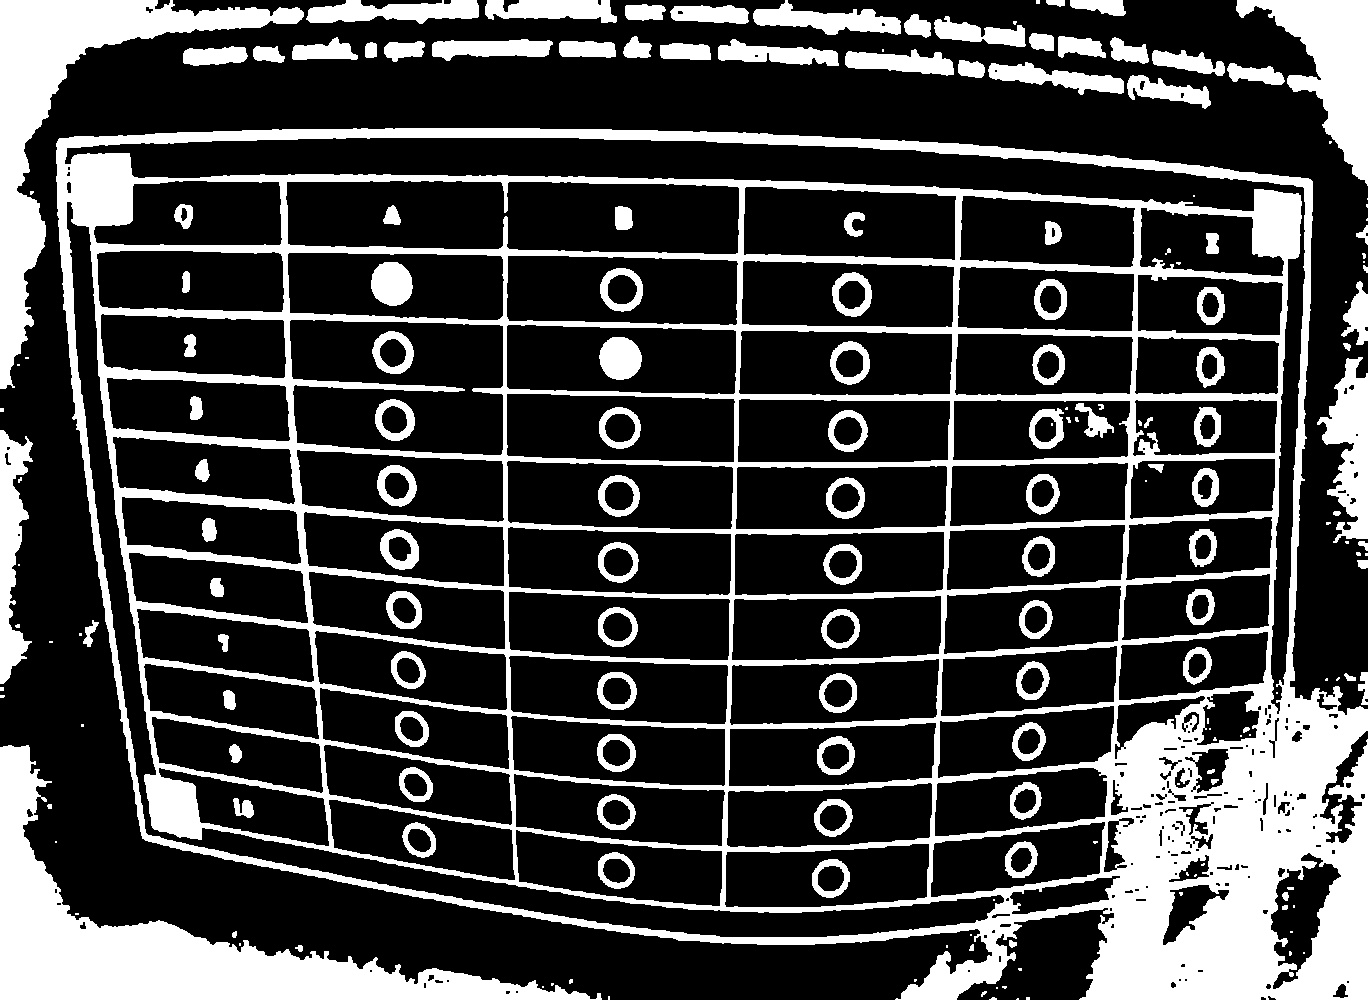
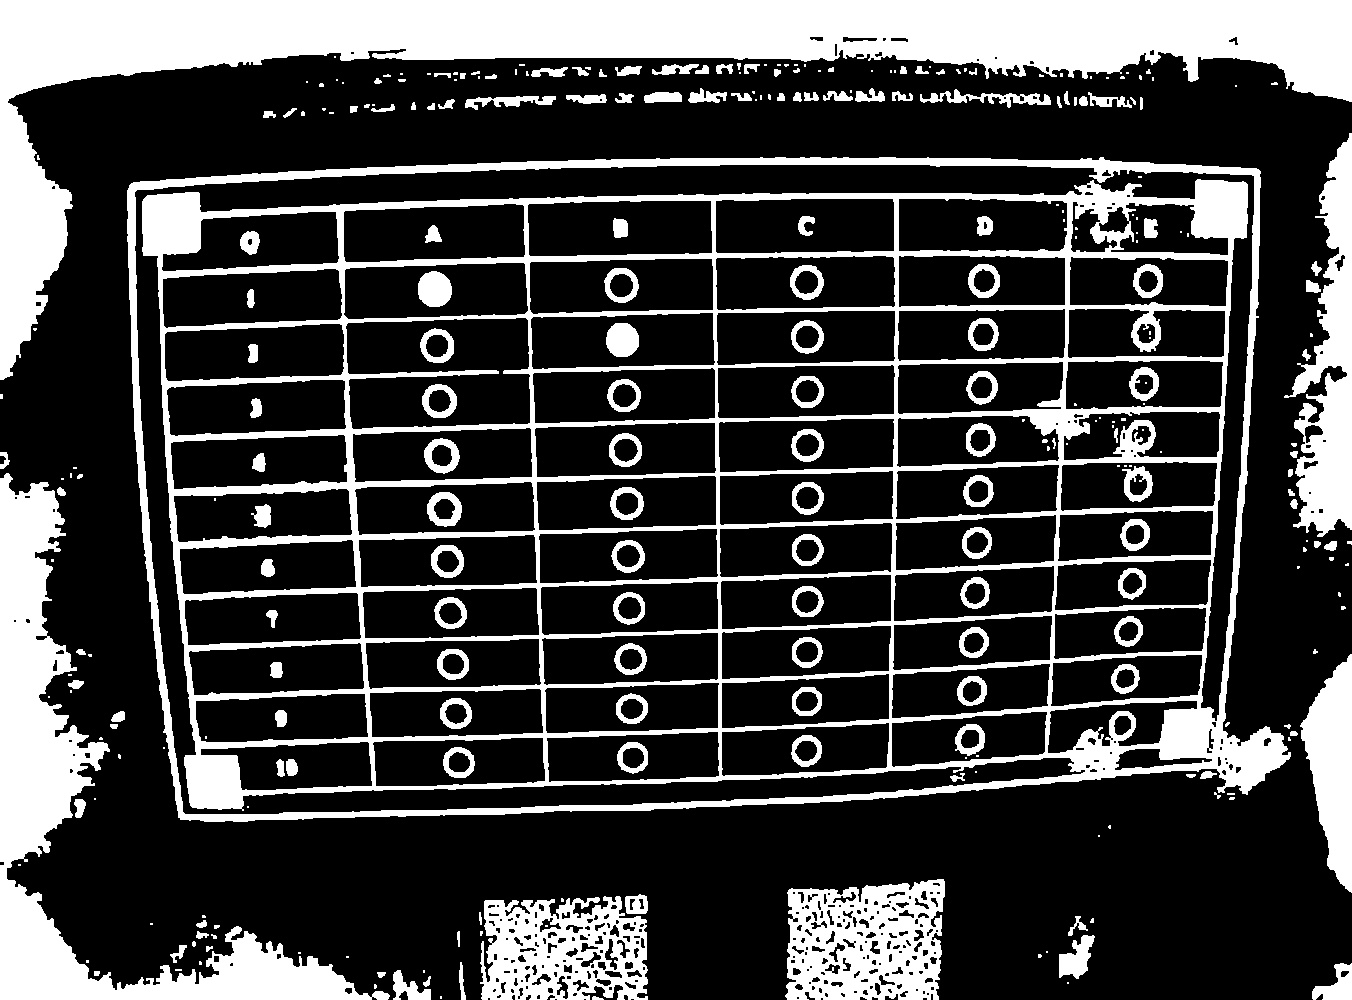
correcao cartao resposta (teste 4) 06/04

diff --git a/frontend/corrigir-prova.html b/frontend/corrigir-prova.html
@@ -473,11 +473,40 @@
             border-left: 3px solid #fff;
         }
         
-        @media (max-width: 480px) {
+        /* 🔥 OTIMIZAÇÕES PARA MOBILE - CÂMERA MAIS PRÓXIMA E INFORMAÇÕES SIMPLIFICADAS */
+        @media (max-width: 768px) {
             .respostas-grid { grid-template-columns: repeat(auto-fill, minmax(85px, 1fr)); }
             .btn-opcao { width: 32px; font-size: 11px; }
             .resposta-card .resposta-valor { font-size: 1.4rem; }
             .modo-indicador { font-size: 9px; padding: 2px 8px; top: 5px; right: 5px; }
+            
+            /* 🔥 QUADRADOS MAIORES PARA MOBILE */
+            .guia-quadrado { 
+                width: 45px !important; 
+                height: 45px !important; 
+                border-width: 3px !important;
+            }
+            
+            /* 🔥 FEEDBACK SIMPLIFICADO */
+            .feedback { 
+                font-size: 12px; 
+                padding: 6px 12px; 
+                white-space: nowrap;
+                bottom: 10px;
+            }
+            
+            .status-encaixe { 
+                font-size: 14px; 
+                padding: 4px 12px; 
+                top: 10px;
+                letter-spacing: 6px;
+            }
+        }
+        
+        @media (max-width: 480px) {
+            .respostas-grid { grid-template-columns: repeat(auto-fill, minmax(85px, 1fr)); }
+            .btn-opcao { width: 32px; font-size: 11px; }
+            .resposta-card .resposta-valor { font-size: 1.4rem; }
         }
     </style>
 </head>
@@ -1216,7 +1245,6 @@
                 
                 const alunoEncontrado = alunosMap.get(alunoId);
                 
-                // 🔥 SE ALUNO NÃO FOR ENCONTRADO, VOLTAR AUTOMATICAMENTE PARA SCANNER QR
                 if (!alunoEncontrado) {
                     console.log('❌ Aluno não encontrado. IDs disponíveis:', Array.from(alunosMap.keys()));
                     mostrarAlerta('❌ Aluno não encontrado na turma desta prova!', 'error');
@@ -1243,7 +1271,7 @@
                 mostrarAlerta(`✅ Aluno: ${alunoSelecionado.nome}`, 'success');
                 document.getElementById('infoBar').innerHTML = `<i class="fas fa-user-check"></i> ${alunoSelecionado.nome}`;
                 
-                // 🔥 INICIAR CÂMERA AUTOMATICAMENTE APÓS ESCANEAR QR CODE (PARA TODOS OS DISPOSITIVOS)
+                // 🔥 INICIAR CÂMERA AUTOMATICAMENTE APÓS ESCANEAR QR CODE
                 setTimeout(() => {
                     if (alunoSelecionado && !stream) {
                         console.log('📷 Iniciando câmera automaticamente para escanear o cartão...');
@@ -1330,8 +1358,16 @@
         // ============================================
         
         function atualizarPosicaoGuias(containerWidth, containerHeight, imageWidth, imageHeight) {
-            const margemPx = Math.min(containerWidth, containerHeight) * margemBusca;
-            const tamanhoPx = Math.min(containerWidth, containerHeight) * tamanhoGuia;
+            // 🔥 ZOOM AUMENTADO PARA MOBILE - CÂMERA MAIS PRÓXIMA
+            let margemPx = Math.min(containerWidth, containerHeight) * margemBusca;
+            let tamanhoPx = Math.min(containerWidth, containerHeight) * tamanhoGuia;
+            
+            if (isMobile) {
+                // Mobile: zoom 30% maior (câmera mais próxima do cartão)
+                const zoomMobile = 1.35;
+                margemPx = Math.min(containerWidth, containerHeight) * margemBusca * zoomMobile;
+                tamanhoPx = Math.min(containerWidth, containerHeight) * tamanhoGuia * 1.15;
+            }
             
             const guias = [
                 { id: 'guiaTL', left: margemPx, top: margemPx },
@@ -1354,6 +1390,16 @@
         function detectarQuadradosPretos(ctx, width, height) {
             const imgData = ctx.getImageData(0, 0, width, height);
             const data = imgData.data;
+            
+            // 🔥 SENSIBILIDADE AUMENTADA PARA MOBILE
+            let sensibilidadeAjustada = sensibilidade;
+            let brilhoMaxAjustado = BRILHO_MAX_PRETO;
+            
+            if (isMobile) {
+                sensibilidadeAjustada = sensibilidade * 0.6;  // Mais fácil detectar
+                brilhoMaxAjustado = BRILHO_MAX_PRETO + 40;    // Mais tolerante
+                console.log(`📱 Mobile: sensibilidade=${sensibilidadeAjustada.toFixed(1)}, brilhoMax=${brilhoMaxAjustado}`);
+            }
             
             const margemPx = Math.min(width, height) * margemBusca;
             const tamanhoPx = Math.min(width, height) * tamanhoGuia;
@@ -1379,13 +1425,13 @@
                             if (px >= 0 && px < width && py >= 0 && py < height) {
                                 const idx = (py * width + px) * 4;
                                 const brilho = (data[idx] + data[idx+1] + data[idx+2]) / 3;
-                                if (brilho < BRILHO_MAX_PRETO) pixelsEscuros++;
+                                if (brilho < brilhoMaxAjustado) pixelsEscuros++;
                             }
                         }
                     }
                     
                     const percentualEscuro = (pixelsEscuros / totalPixels) * 100;
-                    const detectado = percentualEscuro > sensibilidade;
+                    const detectado = percentualEscuro > sensibilidadeAjustada;
                     
                     if (!detectado) todosDetectados = false;
                     
@@ -1517,7 +1563,10 @@
                 const containerRect2 = document.getElementById('cameraContainer').getBoundingClientRect();
                 desenharRetanguloCartao(resultado.retangulo, containerRect2.width, containerRect2.height, canvas.width, canvas.height);
                 
-                if (estabilidade >= 8) {
+                // 🔥 ESTABILIZAÇÃO MAIS RÁPIDA PARA MOBILE
+                const estabilidadeMinima = isMobile ? 4 : 8;
+                
+                if (estabilidade >= estabilidadeMinima) {
                     feedback.innerHTML = `✅ ${encaixadosCount}/4 Alinhados!`;
                     feedback.style.background = '#10b981';
                     
@@ -1525,12 +1574,12 @@
                         iniciarCorrecaoAutomatica();
                     }
                 } else {
-                    feedback.innerHTML = `✅ ${encaixadosCount}/4 Alinhados! Aguardando estabilização...`;
+                    feedback.innerHTML = `✅ ${encaixadosCount}/4 Alinhados!`;
                     feedback.style.background = '#f59e0b';
                     cancelarCorrecaoAutomatica();
                     btnCapturar.disabled = true;
                 }
-                infoBar.innerHTML = `<i class="fas fa-check-circle"></i> Alinhados: ${encaixadosCount}/4`;
+                infoBar.innerHTML = `<i class="fas fa-check-circle"></i> ${encaixadosCount}/4`;
             } else {
                 desenharRetanguloCartao(null);
                 retanguloAtual = null;
@@ -1538,9 +1587,9 @@
                 ultimoRetangulo = null;
                 cancelarCorrecaoAutomatica();
                 
-                feedback.innerHTML = `🎯 Alinhe: ${encaixadosCount}/4 | Aproxime a câmera`;
+                feedback.innerHTML = `🎯 ${encaixadosCount}/4 Alinhe os 4 quadrados`;
                 feedback.style.background = '#f59e0b';
-                infoBar.innerHTML = `<i class="fas fa-camera"></i> Alinhamento: ${encaixadosCount}/4`;
+                infoBar.innerHTML = `<i class="fas fa-camera"></i> ${encaixadosCount}/4`;
                 btnCapturar.disabled = true;
             }
         }
@@ -1551,7 +1600,7 @@
                 mostrarAlerta('Selecione um aluno primeiro!', 'error');
                 return;
             }
-            if (!retanguloAtual || estabilidade < 8) {
+            if (!retanguloAtual || estabilidade < (isMobile ? 4 : 8)) {
                 mostrarAlerta('Aguarde o cartão estabilizar!', 'warning');
                 return;
             }
@@ -1563,7 +1612,8 @@
             canvas.height = video.videoHeight;
             ctx.drawImage(video, 0, 0, canvas.width, canvas.height);
             
-            const expandir = 35;
+            // 🔥 EXPANSÃO MAIOR PARA MOBILE
+            const expandir = isMobile ? 45 : 35;
             const cartaoX = Math.max(0, retanguloAtual.x - expandir);
             const cartaoY = Math.max(0, retanguloAtual.y - expandir);
             const cartaoW = Math.min(canvas.width - cartaoX, retanguloAtual.width + (expandir * 2));
@@ -1580,7 +1630,7 @@
             tempCanvas.width = cartaoW;
             tempCanvas.height = cartaoH;
             tempCanvas.getContext('2d').putImageData(imagemCartao, 0, 0);
-            const imgData = tempCanvas.toDataURL('image/jpeg', 0.95);
+            const imgData = tempCanvas.toDataURL('image/jpeg', isMobile ? 0.85 : 0.95);
             
             document.getElementById('processando').style.display = 'block';
             document.getElementById('resultado').style.display = 'none';
@@ -1720,7 +1770,6 @@
                 const data = await response.json();
                 if (data.success) {
                     mostrarAlerta(`✅ Nota ${notaCalculada.toFixed(1)} salva!`, 'success');
-                    // 🔥 VOLTAR AUTOMATICAMENTE PARA SCANNER QR APÓS SALVAR
                     setTimeout(() => {
                         voltarParaScannerQR();
                     }, 2000);
@@ -1826,7 +1875,6 @@
                                 mostrarAlerta(`✅ Aluno: ${aluno.alunoNome}`, 'success');
                                 document.getElementById('infoBar').innerHTML = `<i class="fas fa-user-check"></i> ${aluno.alunoNome}`;
                                 
-                                // 🔥 INICIAR CÂMERA AUTOMATICAMENTE APÓS SELEÇÃO MANUAL
                                 setTimeout(() => {
                                     if (alunoSelecionado && !stream) {
                                         iniciarCamera();
@@ -1864,7 +1912,6 @@
                             mostrarAlerta(`✅ Aluno: ${alunoSelecionado.nome}`, 'success');
                             document.getElementById('infoBar').innerHTML = `<i class="fas fa-user-check"></i> ${alunoSelecionado.nome}`;
                             
-                            // 🔥 INICIAR CÂMERA AUTOMATICAMENTE
                             setTimeout(() => {
                                 if (alunoSelecionado && !stream) {
                                     iniciarCamera();
@@ -1900,7 +1947,23 @@
                     } catch(e) {}
                 }
                 
-                stream = await navigator.mediaDevices.getUserMedia({ video: { facingMode: { exact: "environment" }, width: { ideal: 1920 }, height: { ideal: 1080 } } })
+                // 🔥 CONFIGURAÇÕES DE VÍDEO COM ZOOM PARA MOBILE
+                const videoConstraints = isMobile ? {
+                    video: { 
+                        facingMode: { exact: "environment" },
+                        width: { ideal: 1280 },
+                        height: { ideal: 720 },
+                        zoom: { ideal: 1.5 }
+                    }
+                } : {
+                    video: { 
+                        facingMode: { exact: "environment" },
+                        width: { ideal: 1920 },
+                        height: { ideal: 1080 }
+                    }
+                };
+                
+                stream = await navigator.mediaDevices.getUserMedia(videoConstraints)
                     .catch(() => navigator.mediaDevices.getUserMedia({ video: true }));
                 video.srcObject = stream;
                 await video.play();
@@ -1908,7 +1971,8 @@
                 btnIniciarCamera.innerHTML = '<i class="fas fa-camera"></i> Câmera Ativa';
                 cameraContainer.style.display = 'block';
                 if (analiseInterval) clearInterval(analiseInterval);
-                analiseInterval = setInterval(analisarFrame, 100);
+                const frameRate = isMobile ? 60 : 100;
+                analiseInterval = setInterval(analisarFrame, frameRate);
                 mostrarAlerta('📷 Câmera iniciada! Posicione o cartão.', 'info');
             } catch (error) {
                 mostrarAlerta('❌ Erro ao acessar câmera', 'error');
